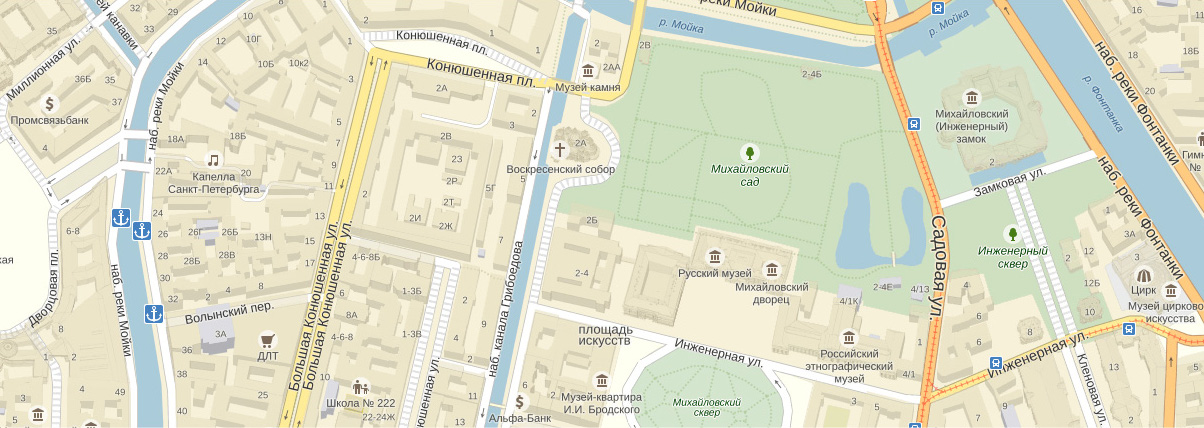
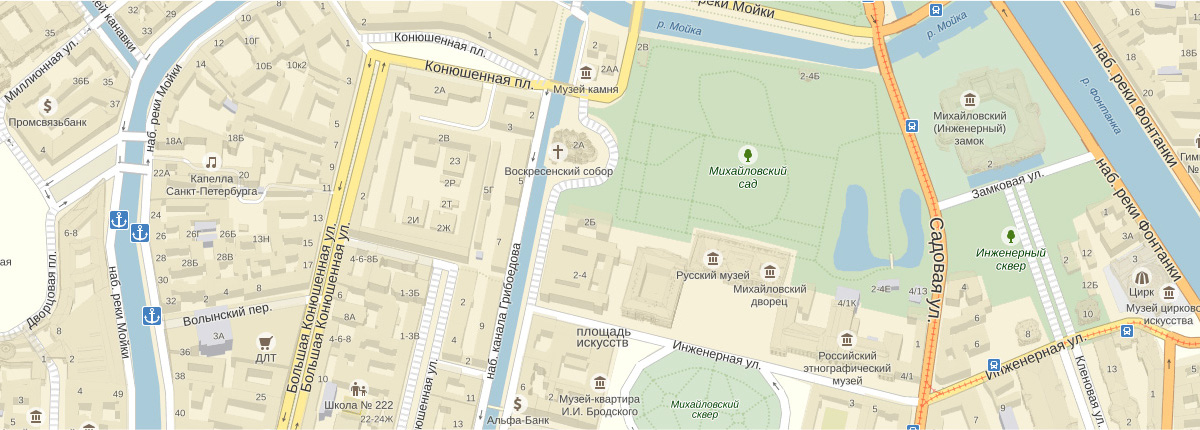
map's width edit

diff --git a/index.html b/index.html
@@ -208,21 +208,23 @@
         </article>
         <section class="contacts-main">
           <h2 class="visually-hidden">Контакты</h2>
-          <div class="contacts container">
-            <p>
-              Адрес главного офиса<br />
-                и офлайн-магазина:
-            </p>
-            <b class="bold-contacts">ул. Большая Конюшенная
-              19/8, Санкт-Петербург</b>
-            <p class="contacts-margin">
-              Для заказов по телефону:
-            </p>
-            <b class="bold-contacts">8 812 450-25-25</b>
-            <p>
-              (с 10 до 20 ежедневно)
-            </p>
-            <a class="button-write-us" href>Форма обратной связи</a>
+          <div class="container">
+            <div class="contacts">
+              <p>
+                Адрес главного офиса<br />
+                  и офлайн-магазина:
+              </p>
+              <b class="bold-contacts">ул. Большая Конюшенная
+                19/8, Санкт-Петербург</b>
+              <p class="contacts-margin">
+                Для заказов по телефону:
+              </p>
+              <b class="bold-contacts">8 812 450-25-25</b>
+              <p>
+                (с 10 до 20 ежедневно)
+              </p>
+              <a class="button-write-us" href>Форма обратной связи</a>
+            </div>
           </div>
           <img  class="map" src="img/map.jpg" width="1200" height="430" alt="Наш магазин находится по адресу г. Санкт-Петербург, ул. Конюшенная, д. 19/8" />
         </section>

diff --git a/css/style.css b/css/style.css
@@ -28,6 +28,7 @@ a {
   width: 1146px;
   margin: 0 auto;
   padding: 0 0;
+  position: relative;
 }
 
 .visually-hidden {
@@ -766,6 +767,9 @@ p.blog-background {
   text-align: center;
 }
 
+.map{
+  width: 100%;
+}
 
 .contacts {
   width: 302px;
@@ -774,8 +778,8 @@ p.blog-background {
   border-radius: 10px;
   color: #323232;
   position: absolute;
-  left: 845px;
-  bottom: 70px;
+  right: 0;
+  bottom: -367px;
   padding-left: 25px;
   padding-top: 32px;
   padding-right: 25px;
